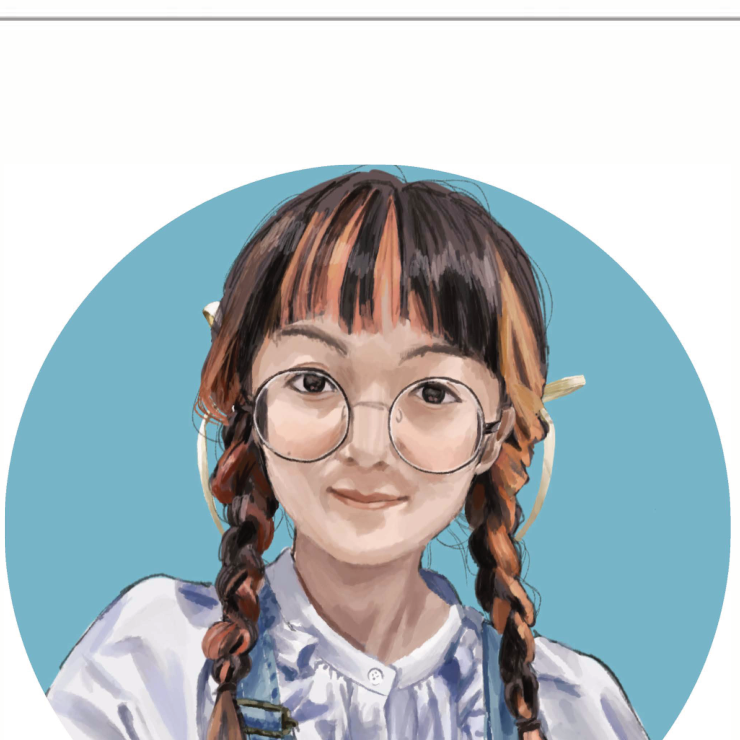
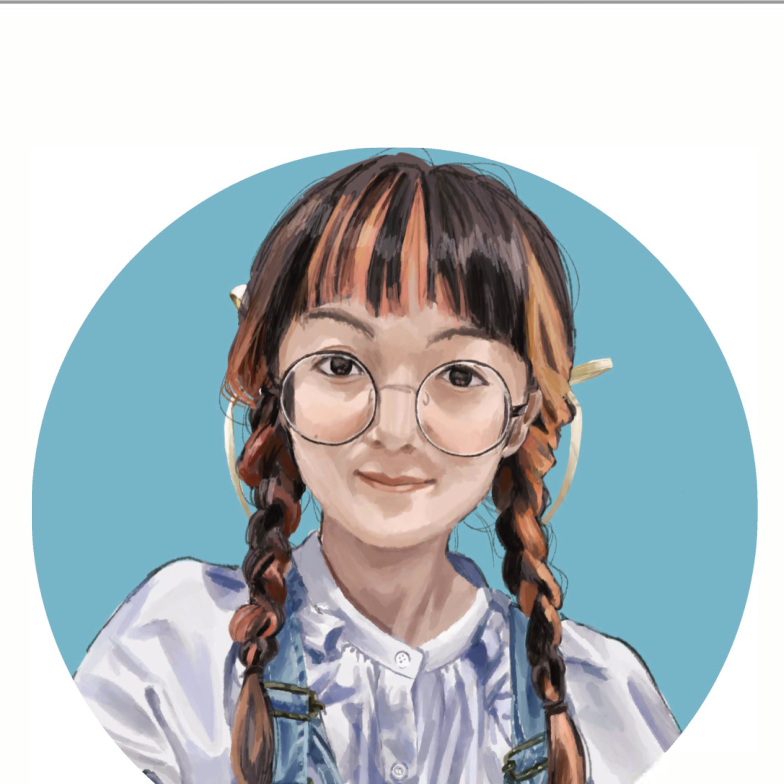
自画像再クロップ（灰色線除去・丸を全表示）、CSS aspect-ratio 1/1 + contain

diff --git a/style.css b/style.css
@@ -200,9 +200,8 @@ em { font-style: italic; font-family: 'Cormorant Garamond', Georgia, serif; font
 /* プロフィール写真エリア */
 .portrait-img {
   width: 100%;
-  aspect-ratio: 3/4;
-  object-fit: cover;
-  object-position: center;
+  aspect-ratio: 1/1;
+  object-fit: contain;
   border-radius: 4px;
   display: block;
 }
